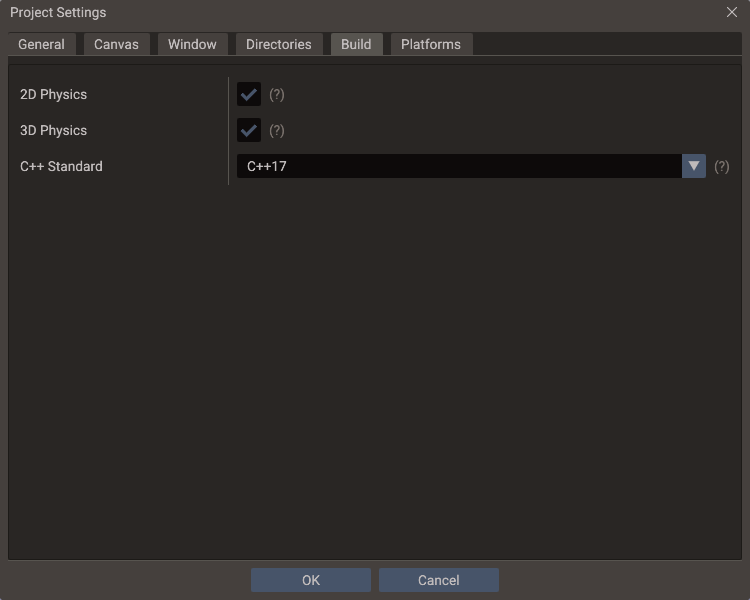
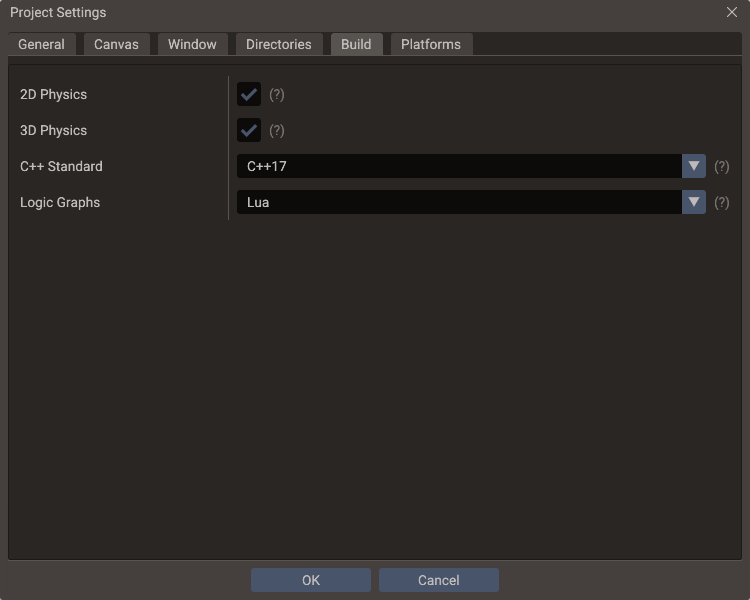
Logic graphs written as Lua or C++

Changed region(s): [[0.3067, 0.3, 0.9813, 0.36], [0.0307, 0.33, 0.1227, 0.36]]

diff --git a/docs/editor/logic-graphs.md b/docs/editor/logic-graphs.md
@@ -1,14 +1,15 @@
 ---
-description: Build Doriax scripts from nodes in the logic graph editor — events, execution links, variables shown in Properties, a node for every method and property of the Lua API — saved as an ordinary Lua script, and from AI agents through the graph MCP tools.
+description: Build Doriax scripts from nodes in the logic graph editor — events, execution links, variables shown in Properties, a node for every method and property of the Lua API — written as a Lua script or as a C++ class, and from AI agents through the graph MCP tools.
 ---
 
 # Logic Graphs
 
 A **logic graph** (`.logic`) builds a [script](../manual/creating-scripts.md) from nodes.
 Events start it, white links carry the order things run in, and the other links carry
-values. The editor turns the graph into a Lua script and keeps that script for itself,
-under the project's `.doriax` folder: you see and attach only the `.logic`, while the
-engine, Play and an export run the Lua, exactly as if it had been written by hand.
+values. The editor turns the graph into a script, in Lua or in C++, and keeps that script
+for itself, under the project's `.doriax` folder: you see and attach only the `.logic`,
+while the engine, Play and an export run the script, exactly as if it had been written
+by hand.
 
 ![The graph window with a logic graph: two events, the nodes they run and the values those read](../assets/screenshots/editor-logic-graph.png)
 
@@ -36,6 +37,40 @@ A graph goes where a Lua script does:
 The row's source button opens the graph, and its variables show below it as the script's
 properties. Renaming or moving a graph in Resources carries the entities that use it.
 
+## Lua or C++
+
+A graph is written as Lua unless you ask for C++:
+
+- **Project Settings** → [Build](project-settings.md#build) → **Logic Graphs** sets what
+  the project's graphs are written as.
+- The list at the right of a graph's toolbar sets it for that graph: **Project** takes
+  the project's setting, **Lua** and **C++** keep the graph to one whatever the project
+  says.
+
+The graph, its variables and the way it is attached stay the same in both, and changing
+the language keeps the values set in Properties.
+
+| | Lua | C++ |
+| --- | --- | --- |
+| Play | Starts at once | Compiles with the project's [C++ scripts](../manual/cpp-build-setup.md) first, so it needs the build tools |
+| Export | Ships as a `.lua` file | Compiles into the game |
+| The script | A Lua table, **On Start** is `init` | A class of `ScriptBase` with a header and a source; **On Start** runs at the first update, once the values of Properties are in |
+| Numbers | Lua numbers | `float`, and `int` for an integer variable |
+| **Code Expression**, **Code** | Hold Lua | Hold C++ |
+
+A few nodes have no C++ form: **Call Method**, the event properties of components, and
+the methods the Lua API adds on its own. A graph written as C++ reports them as errors
+on their nodes. An input of an engine node left unlinked and unset is a default-made
+value in C++, so link the objects a method needs.
+
+A whole number prints as `5` in C++, where Lua prints `5.0` for one it worked out as a
+fraction, such as a division.
+
+An **Entity** variable is a pointer in C++, set from Properties only: **Set Variable**
+does not take it, a **Private** one is an error, and **Is Nil** tells whether it has an
+entity. A C++ graph cannot share its name with a `.lua` file beside it, nor its class
+with another C++ script.
+
 ## How a graph runs
 
 | Kind of node | Pins | What it becomes |
@@ -53,7 +88,7 @@ properties. Renaming or moving a graph in Resources carries the entities that us
   again for each node that runs and reads it, and once for that node: **Random** linked
   to two inputs of one node gives them the same number.
 - Where two paths lead into the same node, what follows is written once for each path.
-  Keep the shared part short, or put it in a **Lua Code** node.
+  Keep the shared part short, or put it in a **Code** node.
 - An event that asks a question, as **Should Collide**, answers yes unless a **Return**
   node gives another **Result**.
 - An unlinked **Object** input of an engine class is the script's own entity, so
@@ -72,16 +107,17 @@ properties. Renaming or moving a graph in Resources carries the entities that us
 | Math, Logic, Text | Arithmetic, which also works on vectors, comparisons, and, or, not, select, join, format |
 | Self | The script's entity, its scene, and the entity as an engine class such as `Mesh` |
 | Input | **Key**, the keyboard keys by name |
-| Utility | **Print**, **Lua Expression**, **Lua Code**, **Call Method** |
+| Utility | **Print**, **Code Expression**, **Code**, **Call Method** |
 | Engine | A category for each class of the [Lua API](../reference/index.md): a node for each method and constant, a **Get** for each property and a **Set** for the ones scripts can write. Methods that only read, such as **Get World Position** or **Is Key Pressed**, are values; the others run |
 | Enums | One node for each enum, with its value as a setting |
 
 Right click the canvas, or press **+ Node**, and type: the search matches every word in
 the names, categories and ids, so `object position` finds **Set Position** of `Object`.
 
-**Lua Expression** is a value written in Lua, and **Lua Code** a few lines that run.
-Both read their inputs as `a`, `b`, `c` and `d` and the script as `self`, and **Lua Code**
-gives its value with `return`. What Lua does not accept is reported on the node.
+**Code Expression** is a value written in the graph's language, and **Code** a few lines
+that run. Both read their inputs as `a`, `b`, `c` and `d` and the script as `self`, or
+`this` in C++, and **Code** gives its value with `return`. What Lua does not accept is
+reported on the node; what C++ does not accept shows when Play builds the scripts.
 
 ## Variables
 
@@ -100,8 +136,8 @@ entity.
 ## The window
 
 The canvas, undo and the toolbar work as in [Shader Graphs](shader-graphs.md#the-canvas).
-**Code** shows the Lua the graph makes, and the status reads **script**, or the number of
-errors. Errors are listed in the side panel and outlined on their nodes; while a graph
+**Code** shows the script the graph makes, Lua or the C++ header and source, and the
+status reads **Lua script** or **C++ script**, or the number of errors. Errors are listed in the side panel and outlined on their nodes; while a graph
 has errors, saving keeps the script it had, and an export stops on it. Ctrl+S, or **File** → **Save**, saves the graph, and so does **Play**, which saves every open graph and script before it starts.
 
 ## From agents
@@ -111,10 +147,13 @@ The [MCP server](mcp-server.md) and the AI Chat use the graph tools of shader gr
 | Tool | Does |
 | --- | --- |
 | `list_graph_node_types` | With `graph_type` `script`, lists the graph's own nodes and the engine classes; `search` or a class as `category` returns their nodes in full |
-| `read_graph` | Reads a `.logic`: variables, nodes, links, whether it compiles and, with `include_code`, the Lua |
-| `edit_graph` | Changes it in one step, or creates it with `create`. Nodes added without a position are laid out, one row for each event. The path of a new graph is inside the project's Lua directory. The result gives the path and class name `attach_script` takes, with type `lua`: the graph itself |
+| `read_graph` | Reads a `.logic`: variables, nodes, links, whether it compiles, its `language` and, with `include_code`, the Lua, or the C++ source and header |
+| `edit_graph` | Changes it in one step, or creates it with `create`. Nodes added without a position are laid out, one row for each event. The path of a new graph is inside the project's Lua directory. `language` sets what the graph is written as: `lua`, `cpp`, or `project`. The result gives the path and class name `attach_script` takes, with type `lua` in both languages: the graph itself |
+| `set_project_logic_language` | Sets what the project's graphs are written as, `lua` or `cpp`; `get_project_summary` reports it as `logic_language` |
 
 ## Command line
 
-`doriax-editor logic <file.logic>` prints a graph's script, and `--out <file.lua>` writes
-it to a file of your choice, and `doriax-editor logic-nodes` prints the node types as JSON.
+`doriax-editor logic <file.logic>` prints a graph's script, and `--out <file>` writes
+it to a file of your choice. `--language cpp` writes the C++ class instead, with its
+header beside the file; without it the graph's own language is used, else Lua.
+`doriax-editor logic-nodes` prints the node types as JSON.

diff --git a/docs/editor/command-line.md b/docs/editor/command-line.md
@@ -206,8 +206,8 @@ doriax-editor shaders --out ./shaders --shader mesh:Uv1,Nor --backend opengles
 | Command | Does |
 | --- | --- |
 | `doriax-editor shader-nodes` | Prints every [shader graph](shader-graphs.md) node type as JSON |
-| `doriax-editor logic-nodes` | Prints every [logic graph](logic-graphs.md) node type as JSON; `--check` compiles a graph around each one instead and prints the ones that fail |
-| `doriax-editor logic <file.logic>` | Prints the Lua script of a logic graph; `--out <file.lua>` writes it to a file |
+| `doriax-editor logic-nodes` | Prints every [logic graph](logic-graphs.md) node type as JSON; `--check` compiles a graph around each one instead and prints the ones that fail, as C++ with `--cpp`, and `--dump <dir>` keeps the scripts |
+| `doriax-editor logic <file.logic>` | Prints the script of a logic graph; `--out <file>` writes it to a file, and `--language cpp` writes the C++ class with its header |
 
 ## Graphic backends
 

diff --git a/docs/manual/creating-scripts.md b/docs/manual/creating-scripts.md
@@ -90,7 +90,7 @@ another. All edits are undoable.
 | Type | Enum value | Generated base | Best use |
 | --- | --- | --- | --- |
 | Lua Script | `SCRIPT_LUA` | Lua table module | Fast iteration, UI glue, triggers, controllers |
-| Logic Graph | `SCRIPT_LUA` | A [logic graph](../editor/logic-graphs.md), run as the Lua the editor writes from it | Behavior built from nodes, without writing code |
+| Logic Graph | `SCRIPT_LUA` | A [logic graph](../editor/logic-graphs.md), run as the Lua script or the C++ class the editor writes from it | Behavior built from nodes, without writing code |
 | C++ Subclass | `SUBCLASS` | The wrapper class matching the entity (`Mesh`, `Camera`, `Terrain`, `Button`, …) | Behavior that calls wrapper methods like `getPosition()` |
 | C++ Script Class | `SCRIPT_CLASS` | `ScriptBase` | Logic that accesses scene/entity explicitly without a wrapper |
 

diff --git a/docs/editor/project-settings.md b/docs/editor/project-settings.md
@@ -143,6 +143,7 @@ The native resource pack has runtime restrictions — packed entries are read th
 | **2D Physics** | On | Builds Box2D into exported games |
 | **3D Physics** | On | Builds Jolt into exported games |
 | **C++ Standard** | `C++17` | Language standard the project's C++ scripts are compiled with, in Play and in exported games |
+| **Logic Graphs** | `Lua` | What [logic graphs](logic-graphs.md#lua-or-c) are written as: Lua, or C++ compiled with the C++ scripts. A graph can set its own in its window |
 
 The standard belongs to the project rather than to your machine — a script using
 `consteval` needs C++20 wherever it is built — so it is saved in `project.yaml` and
